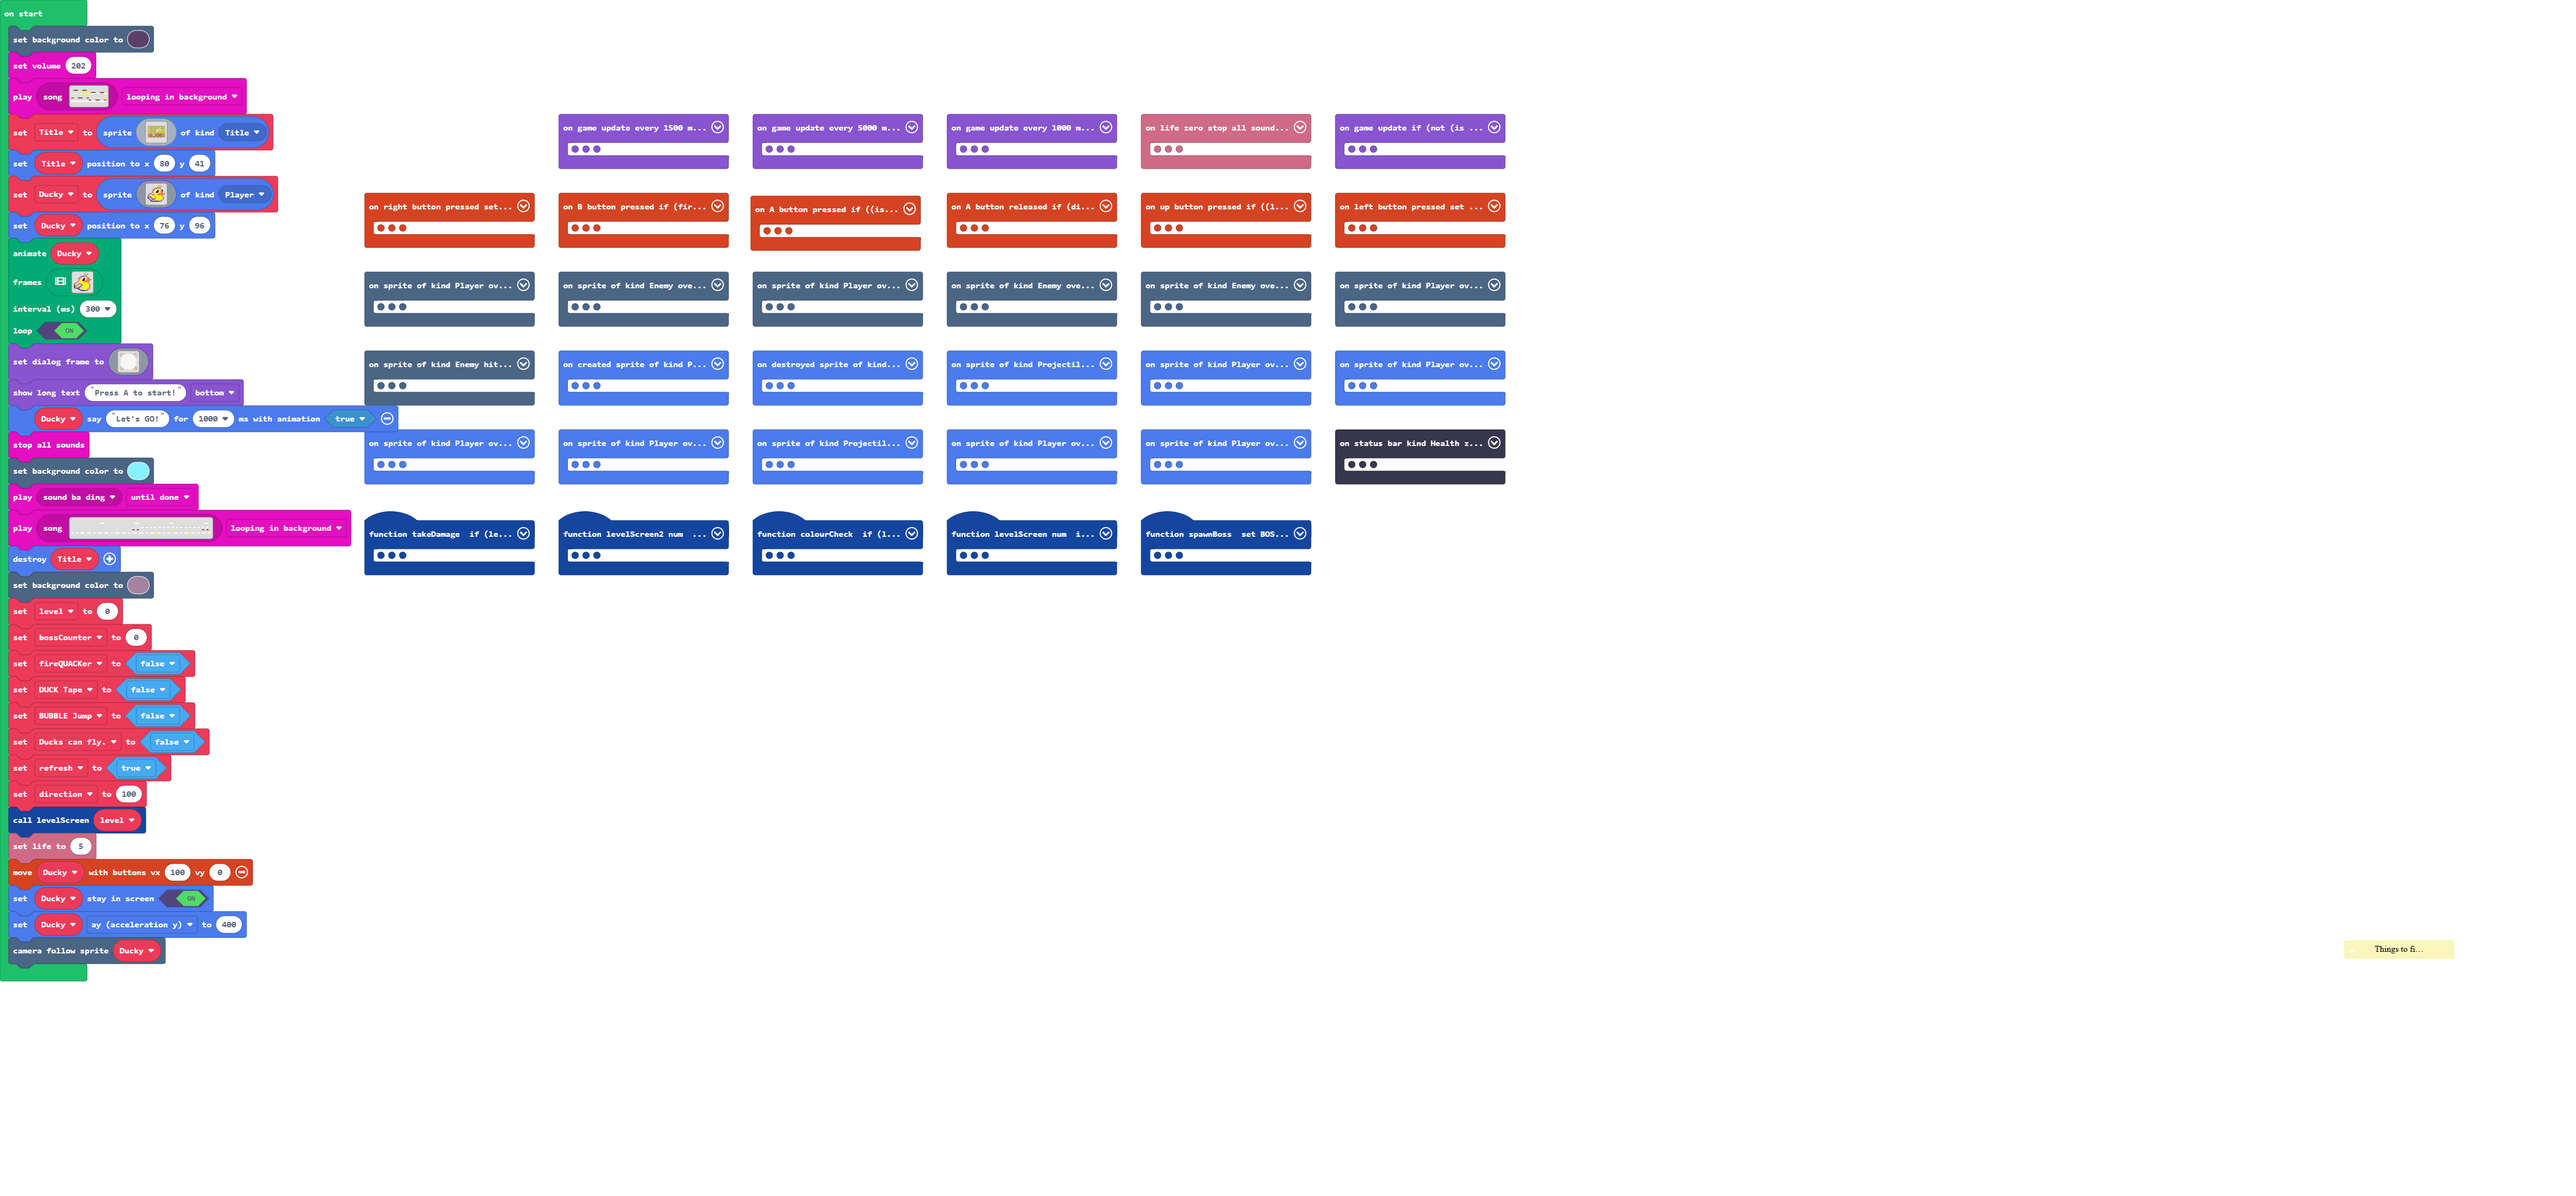
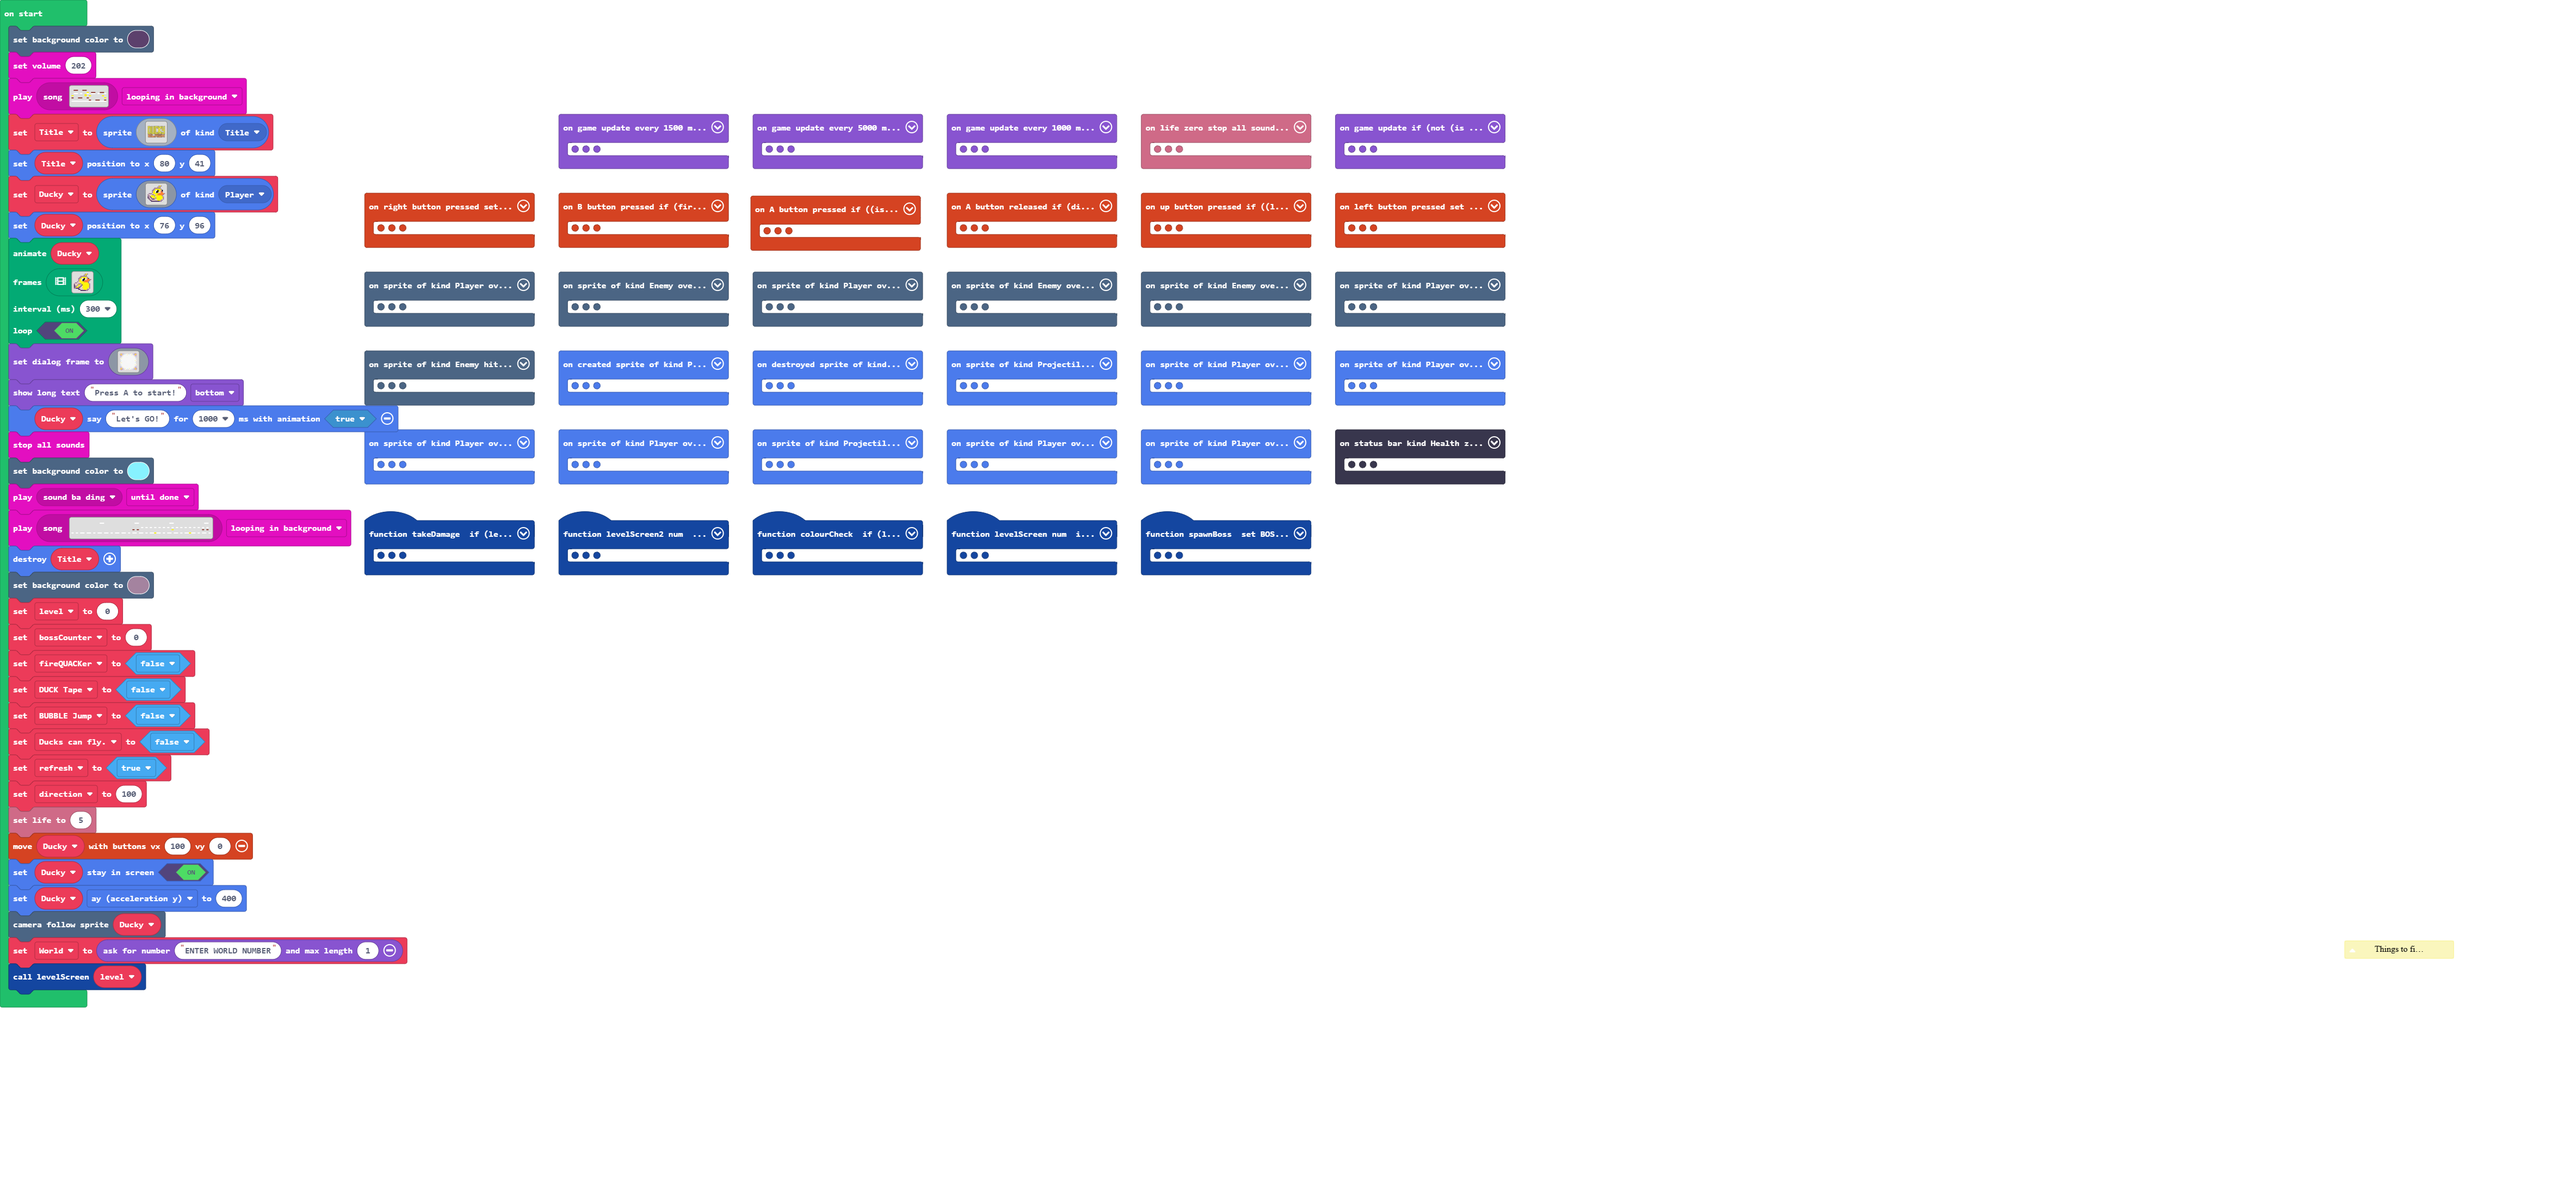
Update main.blocks, main.ts

Changed region(s): [[0.0, 0.6494, 0.1552, 0.8658]]

diff --git a/main.ts b/main.ts
@@ -1809,12 +1809,13 @@ BUBBLE_Jump = false
 Ducks_can_fly = false
 refresh = true
 direction = 100
-levelScreen(level)
 info.setLife(5)
 controller.moveSprite(Ducky, 100, 0)
 Ducky.setStayInScreen(true)
 Ducky.ay = 400
 scene.cameraFollowSprite(Ducky)
+let World = game.askForNumber("ENTER WORLD NUMBER", 1)
+levelScreen(level)
 game.onUpdateInterval(1500, function () {
     if (level >= 1 || BUBBLE_Jump == true) {
         if (level <= 8) {
